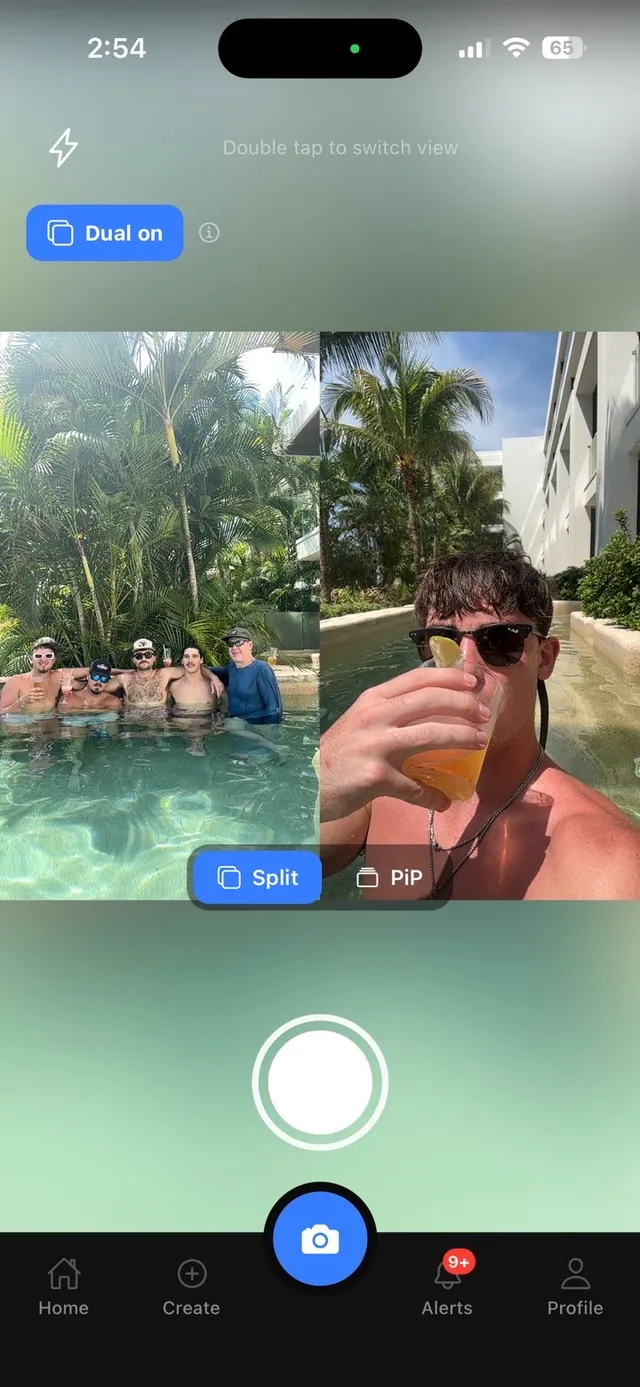
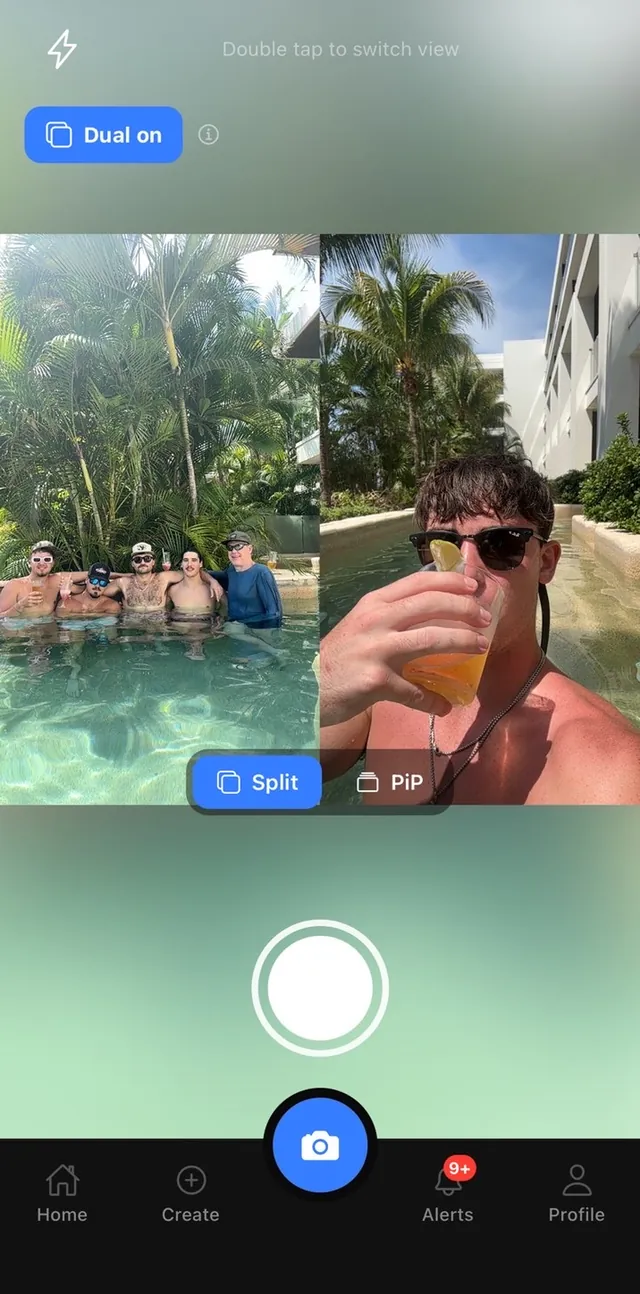
Crop the status bar out of the new screenshots, match existing dimensions
The four new shots carried the iPhone status bar (clock, cellular, wifi,
battery) and were 800x1739 / 720x1560, so they sat at a different aspect
than the two screenshots already on the page.

Each is now cropped by the top safe-area inset (62pt of 874pt, applied as
a fraction so it works regardless of the capture scale) and then trimmed
to the 800x1618 aspect of the existing shots — surplus height off the
bottom, since the content is anchored at the top; surplus width split
evenly. Every derivative, new and old, is now 800x1618 or 640x1294.

The dual-camera shot is now upscaled 720 -> 800 to match. That is a real
11% upscale of a photograph, accepted here because uniform framing across
the gallery matters more than the detail it doesn't add.

Verified by rendering all five filled tiles side by side: no status bars,
consistent framing, no content clipped at the top.

Claude-Session: https://claude.ai/code/session_01K8nLACBQYVSq8uNyujStec

diff --git a/landing/index.html b/landing/index.html
@@ -133,7 +133,7 @@
       <div class="shot-frame shot-frame--filled">
         <picture>
           <source type="image/webp" sizes="240px" srcset="screenshots/capsule-app-capsule-detail-screen-640.webp 640w, screenshots/capsule-app-capsule-detail-screen.webp 800w" />
-          <img src="screenshots/capsule-app-capsule-detail-screen.png" width="800" height="1739" fetchpriority="high" decoding="async" alt="Lake House Trip capsule, locked, with a countdown ring reading 20h 34m 41s left and unlocking August 2 2026, above a collapsed Default awards row and four members" />
+          <img src="screenshots/capsule-app-capsule-detail-screen.png" width="800" height="1618" fetchpriority="high" decoding="async" alt="Lake House Trip capsule, locked, with a countdown ring reading 20h 34m 41s left and unlocking August 2 2026, above a collapsed Default awards row and four members" />
         </picture>
       </div>
     </div>
@@ -200,8 +200,8 @@
       <div class="shot-item">
         <div class="shot-frame shot-frame--filled">
           <picture>
-            <source type="image/webp" sizes="(max-width: 520px) 320px, (max-width: 860px) 45vw, 381px" srcset="screenshots/capsule-app-dual-camera-screen-640.webp 640w, screenshots/capsule-app-dual-camera-screen.webp 720w" />
-            <img src="screenshots/capsule-app-dual-camera-screen.jpg" width="720" height="1560" loading="lazy" decoding="async" alt="Dual camera in split layout — the back lens showing five friends in a resort pool beside the front lens selfie, with Split and PiP layout options and a Dual on badge" />
+            <source type="image/webp" sizes="(max-width: 520px) 320px, (max-width: 860px) 45vw, 381px" srcset="screenshots/capsule-app-dual-camera-screen-640.webp 640w, screenshots/capsule-app-dual-camera-screen.webp 800w" />
+            <img src="screenshots/capsule-app-dual-camera-screen.jpg" width="800" height="1618" loading="lazy" decoding="async" alt="Dual camera in split layout — the back lens showing five friends in a resort pool beside the front lens selfie, with Split and PiP layout options and a Dual on badge" />
           </picture>
         </div>
         <p class="shot-caption">Dual camera</p>
@@ -210,7 +210,7 @@
         <div class="shot-frame shot-frame--filled">
           <picture>
             <source type="image/webp" sizes="(max-width: 520px) 320px, (max-width: 860px) 45vw, 381px" srcset="screenshots/capsule-app-invite-people-screen-640.webp 640w, screenshots/capsule-app-invite-people-screen.webp 800w" />
-            <img src="screenshots/capsule-app-invite-people-screen.png" width="800" height="1739" loading="lazy" decoding="async" alt="Invite People sheet on the Friends tab, listing three friends each with an Invite button, above Share Invite Link and Show QR Code options" />
+            <img src="screenshots/capsule-app-invite-people-screen.png" width="800" height="1618" loading="lazy" decoding="async" alt="Invite People sheet on the Friends tab, listing three friends each with an Invite button, above Share Invite Link and Show QR Code options" />
           </picture>
         </div>
         <p class="shot-caption">Invite people</p>
@@ -219,7 +219,7 @@
         <div class="shot-frame shot-frame--filled">
           <picture>
             <source type="image/webp" sizes="(max-width: 520px) 320px, (max-width: 860px) 45vw, 381px" srcset="screenshots/capsule-app-awards-screen-640.webp 640w, screenshots/capsule-app-awards-screen.webp 800w" />
-            <img src="screenshots/capsule-app-awards-screen.png" width="800" height="1739" loading="lazy" decoding="async" alt="Awards winners list: Most likely to get lost, Best view captured, Biggest adventurer, and Funniest candid, each showing the winning person or photo and its vote count" />
+            <img src="screenshots/capsule-app-awards-screen.png" width="800" height="1618" loading="lazy" decoding="async" alt="Awards winners list: Most likely to get lost, Best view captured, Biggest adventurer, and Funniest candid, each showing the winning person or photo and its vote count" />
           </picture>
         </div>
         <p class="shot-caption">Awards</p>
